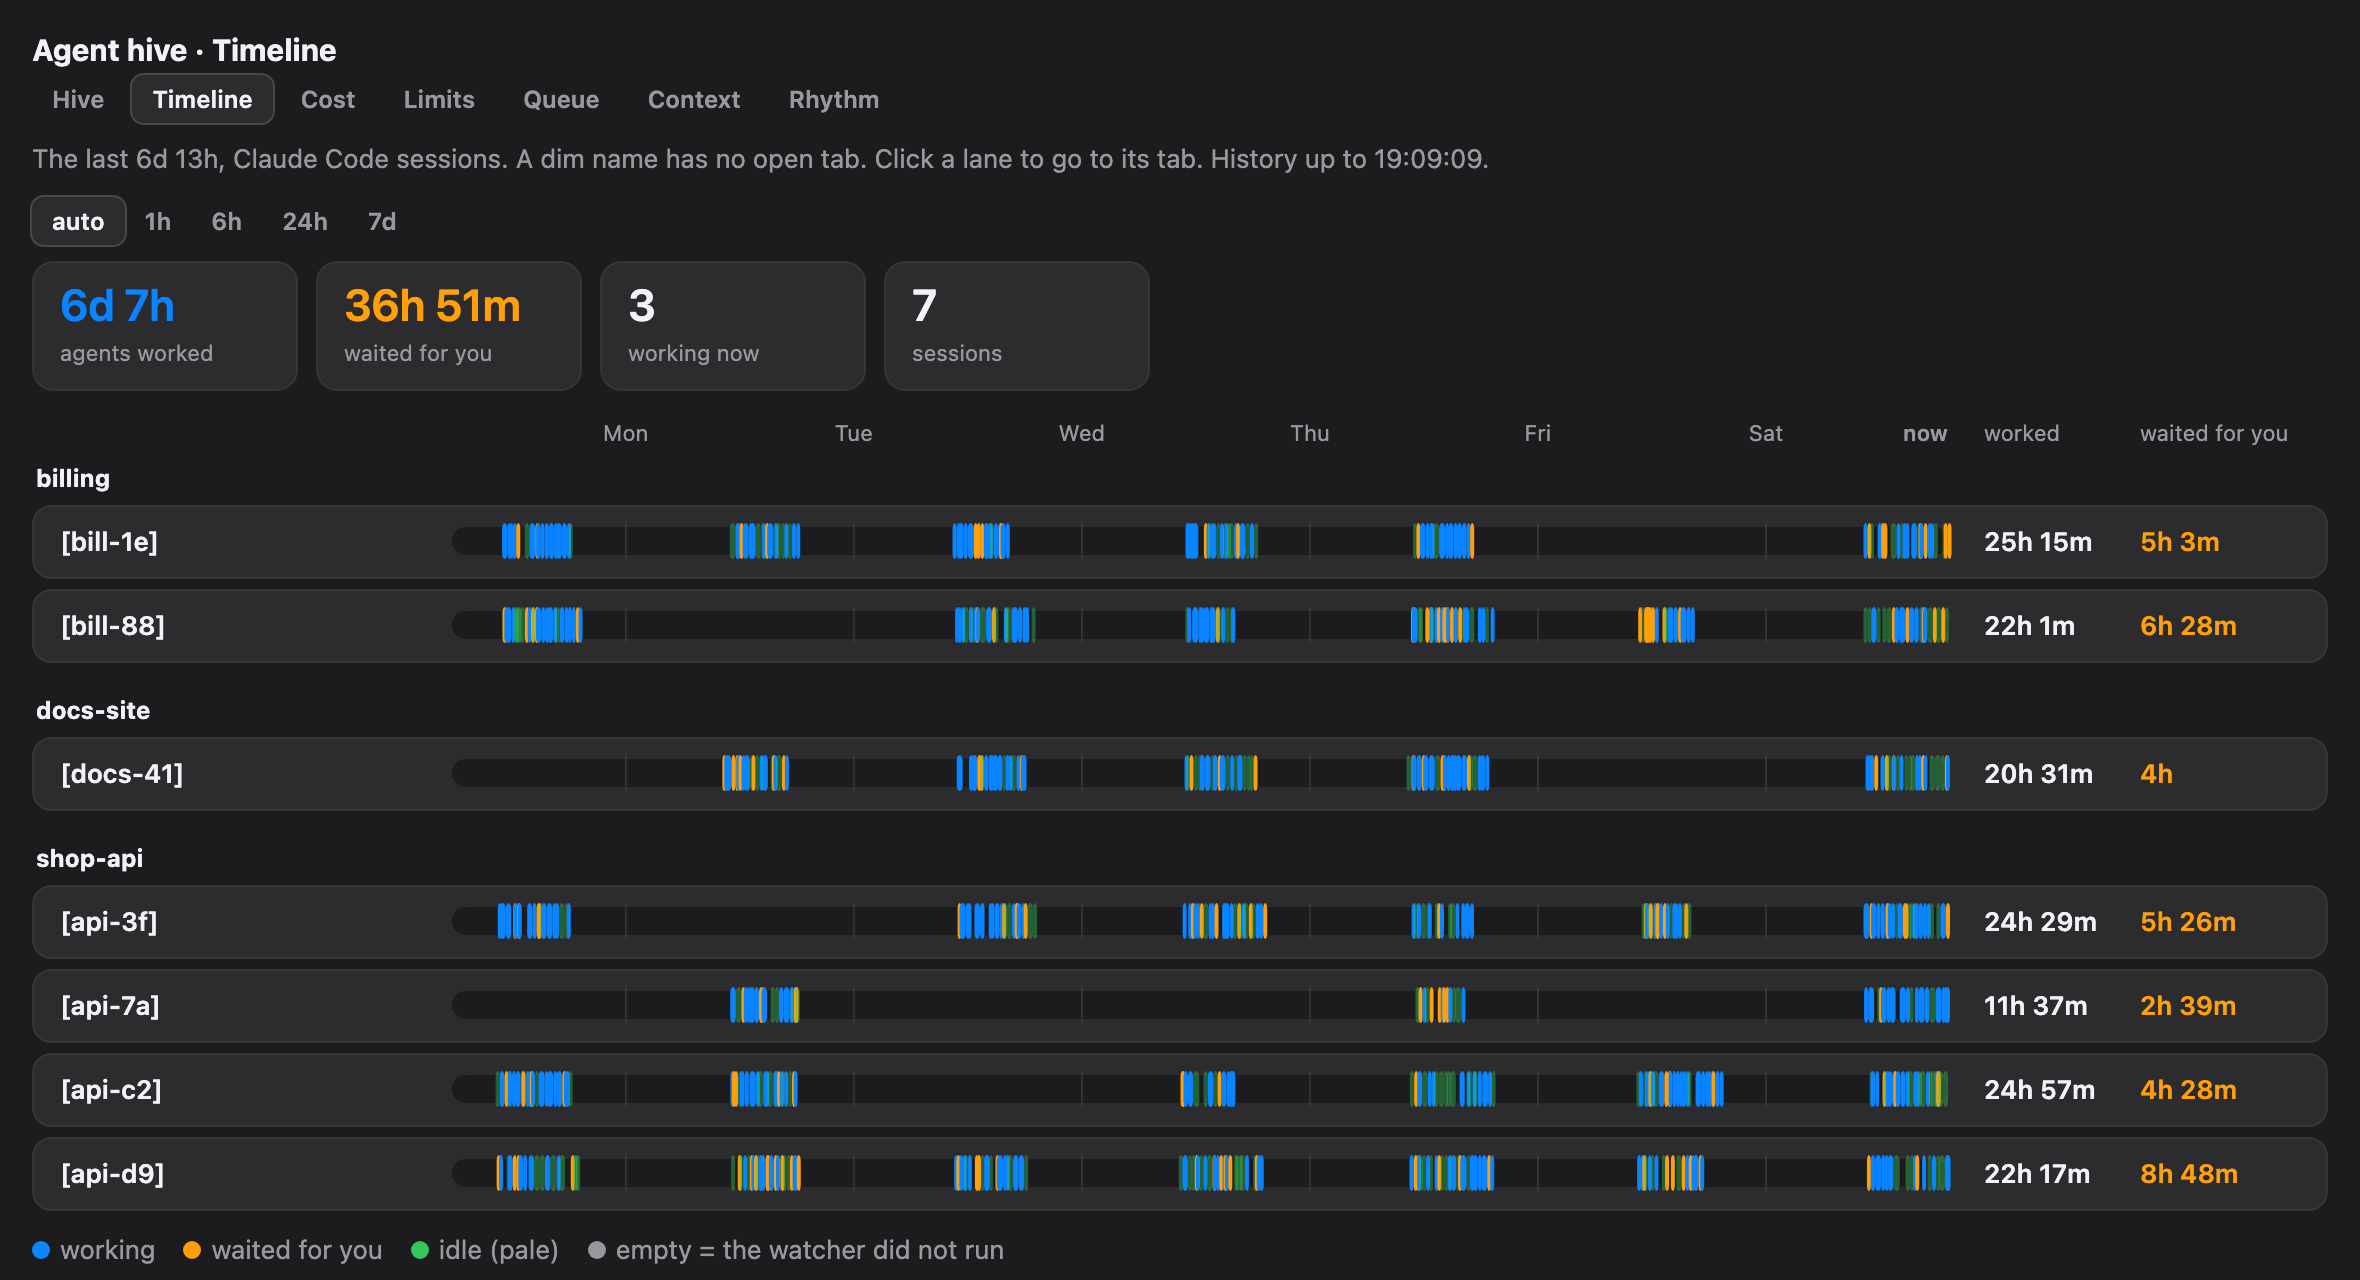
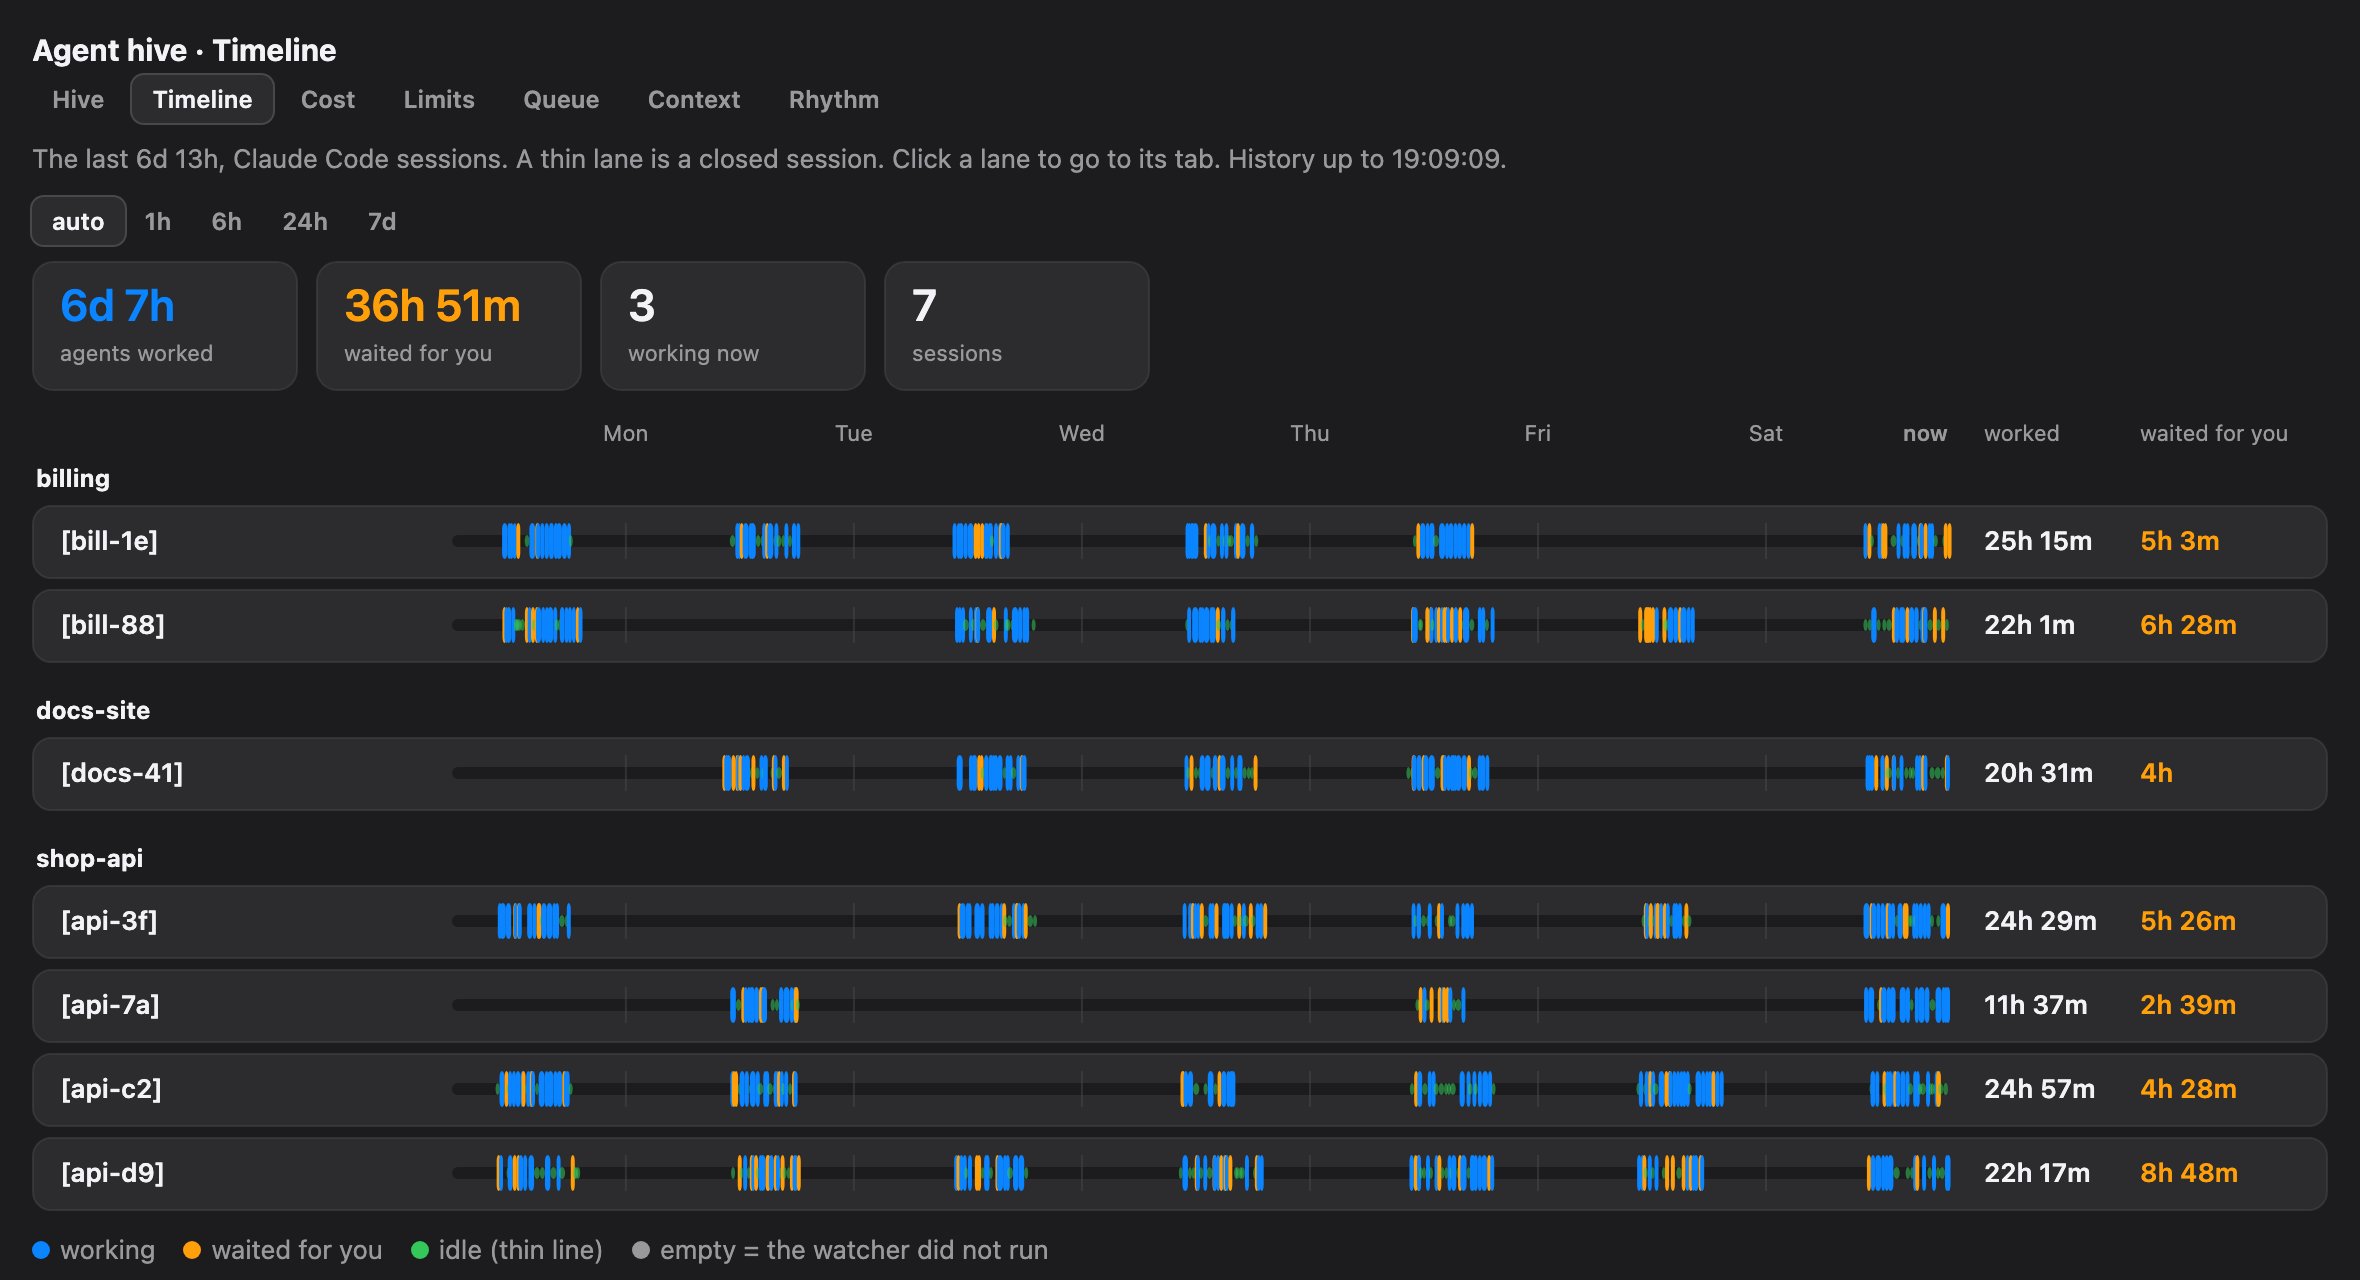
Views page: closed sessions as thin lanes, readable small cost boxes, session names with spaces
Claude-Session: https://claude.ai/code/session_01HXnduGYF8UR6DKBXDS7SRz

diff --git a/scripts/hive.html b/scripts/hive.html
@@ -241,7 +241,7 @@ const two = (n) => String(n).padStart(2, "0");
 const hhmm = (t) => { const d = new Date(t * 1000); return two(d.getHours()) + ":" + two(d.getMinutes()); };
 const dayTime = (t) => new Date(t * 1000).toLocaleDateString(undefined, { weekday: "short" }) + " " + hhmm(t);
 const money = (c) => { const n = parseFloat(String(c ?? "").replace(/[^0-9.]/g, "")); return Number.isFinite(n) ? n : 0; };
-const sessName = (title) => (/^\[([^\] ]+)/.exec(String(title ?? "")) || [])[1] || "";
+const sessName = (title) => (/^\[([^\]]+)\]/.exec(String(title ?? "")) || [])[1] || "";
 const agents = () => pic.ws.flatMap((w) => (w.a || []).map((a) => ({ ...a, wn: w.n, wc: w.c })));
 const goOf = (a) => (a && /^[0-9A-Fa-f-]{1,40}$/.test(a.i || "") && /^[0-9A-Fa-f-]{1,40}$/.test(a.w || "") ? a.w + ":" + a.i : "");
 // The box of an open session with this name, for a jump from a view that knows names only.
@@ -273,6 +273,12 @@ function tiles(svg, items) {
 const card = (y, w, h, marked) => el("rect", { class: "box", x: 0.5, y: y + 0.5, width: w - 1, height: h, rx: 9,
   style: marked ? "stroke:#0A84FF;stroke-width:1.6" : "stroke-opacity:.5" });
 const track = (x, y, w, h) => el("rect", { x, y, width: Math.max(0, w), height: h, rx: h / 2, fill: "var(--bg)" });
+// Shares of a length, where no part is smaller than min: the small parts grow, the others give the room.
+function fit(values, length, min) {
+  const sum = values.reduce((p, q) => p + q, 0), floor = Math.min(min, length / values.length);
+  const small = values.filter((v) => (v / sum) * length < floor), rest = sum - small.reduce((p, q) => p + q, 0);
+  return values.map((v) => ((v / sum) * length < floor ? floor : (v / rest) * (length - small.length * floor)));
+}
 const size = (svg, w, h) => { svg.setAttribute("width", w); svg.setAttribute("height", h); };
 
 // ---- Timeline: one lane per session, one block per state ----
@@ -294,7 +300,9 @@ function drawTimeline(svg) {
       "It covers Claude Code sessions: other tools publish no session state."]);
     return "Timeline: no data in the last " + dur(span) + ".";
   }
-  const order = [...lanes.keys()].sort((a, b) => (hist.s[a].w + "\n" + hist.s[a].n).localeCompare(hist.s[b].w + "\n" + hist.s[b].n));
+  // In each workspace: the open sessions first, then the closed ones (thin lanes).
+  const rank = (sid) => hist.s[sid].w + "\n" + (agentNamed(hist.s[sid].n) ? 0 : 1) + hist.s[sid].n;
+  const order = [...lanes.keys()].sort((a, b) => rank(a).localeCompare(rank(b)));
   const W = pageWidth(), LEFT = 210, RIGHT = 190, ROW = 36, GAP = 6, plot = W - LEFT - RIGHT;
   const x = (t) => LEFT + ((Math.max(t, from) - from) / span) * plot;
   const sums = order.map((sid) => {
@@ -332,28 +340,29 @@ function drawTimeline(svg) {
       svg.appendChild(el("text", { x: 2, y: y + 13, style: "font-size:12px;font-weight:700" }, cut(group || "no workspace", 40)));
       y += 22;
     }
-    const live = agentNamed(info.n), go = goOf(live), [w, q] = sums[k];
+    const live = agentNamed(info.n), go = goOf(live), [w, q] = sums[k], h = live ? ROW : 24, mid = y + h / 2, bh = live ? 18 : 10;
     const g = el("g", go ? { class: "go", tabindex: 0, role: "link" } : {});
-    g.appendChild(card(y, W, ROW, sel && sel === info.n));
-    g.appendChild(el("text", { x: 14, y: y + 23, style: "font-size:13px;font-weight:600" + (live ? "" : ";opacity:.5") }, cut("[" + info.n + "]", 24)));
-    g.appendChild(track(LEFT, y + 11, plot, 14));
-    for (const t of marks) g.appendChild(el("line", { class: "grid", x1: x(t), x2: x(t), y1: y + 9, y2: y + 27, style: "opacity:.5" }));
+    g.appendChild(card(y, W, h, sel && sel === info.n));
+    g.appendChild(el("text", { x: 14, y: mid + 4.5, style: live ? "font-size:13px;font-weight:600" : "font-size:11px;opacity:.55" }, cut("[" + info.n + "]", 24)));
+    g.appendChild(track(LEFT, mid - 3, plot, 6));
+    for (const t of marks) g.appendChild(el("line", { class: "grid", x1: x(t), x2: x(t), y1: mid - bh / 2, y2: mid + bh / 2, style: "opacity:.5" }));
     for (const b of lanes.get(sid)) {
       const a = Math.max(b[2], from), z = Math.min(b[3], now);
-      const rect = el("rect", { x: x(a), y: y + 9, width: Math.max(2, x(z) - x(a)), height: 18, rx: 3,
-        fill: STATUS[b[1]][0], opacity: b[1] === "idle" ? 0.4 : 1 });
+      const idle = b[1] === "idle";  // idle time is a thin line, so work and waits stand out
+      const rect = el("rect", { x: x(a), y: idle ? mid - 3 : mid - bh / 2, width: Math.max(2, x(z) - x(a)), height: idle ? 6 : bh, rx: 3,
+        fill: STATUS[b[1]][0], opacity: idle ? 0.55 : 1 });
       rect.appendChild(el("title", {}, STATUS[b[1]][1] + " " + hhmm(b[2]) + " to " + hhmm(b[3]) + " (" + dur(b[3] - b[2]) + ")"));
       g.appendChild(rect);
     }
-    g.appendChild(el("text", { x: LEFT + plot + 18, y: y + 23, style: "font-size:13px;font-weight:600" + (w ? "" : ";opacity:.3") }, w ? dur(w) : "–"));
-    g.appendChild(el("text", { x: LEFT + plot + 96, y: y + 23, style: "font-size:13px;font-weight:600;" + (q ? "fill:#FF9F0A" : "opacity:.3") }, q ? dur(q) : "–"));
+    g.appendChild(el("text", { x: LEFT + plot + 18, y: mid + 4.5, style: "font-size:13px;font-weight:600" + (w ? "" : ";opacity:.3") }, w ? dur(w) : "–"));
+    g.appendChild(el("text", { x: LEFT + plot + 96, y: mid + 4.5, style: "font-size:13px;font-weight:600;" + (q ? "fill:#FF9F0A" : "opacity:.3") }, q ? dur(q) : "–"));
     if (go) jump(g, go);
     svg.appendChild(g);
-    y += ROW + GAP;
+    y += h + (live ? GAP : 3);
   });
   size(svg, W, y + 4);
-  legendItems = [[STATUS.working[0], "working"], [STATUS.needs_input[0], "waited for you"], [STATUS.idle[0], "idle (pale)"], ["#98989d", "empty = the watcher did not run"]];
-  return "The last " + dur(span) + ", Claude Code sessions. A dim name has no open tab. Click a lane to go to its tab.";
+  legendItems = [[STATUS.working[0], "working"], [STATUS.needs_input[0], "waited for you"], [STATUS.idle[0], "idle (thin line)"], ["#98989d", "empty = the watcher did not run"]];
+  return "The last " + dur(span) + ", Claude Code sessions. A thin lane is a closed session. Click a lane to go to its tab.";
 }
 
 // ---- Cost: a map (workspace, then session; the area is the cost) and a ranked list ----
@@ -369,15 +378,17 @@ function drawCost(svg) {
   const W = pageWidth(), H = 240, GAP = 4;
   let y = tiles(svg, [["$" + total.toFixed(2), "open sessions, list price", ""], ["$" + all[0].v.toFixed(2), "top: " + cut(sessName(all[0].a.n) || all[0].a.n, 20), modelOf(all[0].a.m)[1]],
     [Math.round((groups[0].v / total) * 100) + "%", "in " + cut(groups[0].n, 20), ""], [String(all.length), "sessions with a cost", ""]]);
+  const widths = fit(groups.map((g) => g.v), W, 170);
+  groups.forEach((g, k) => { g.gw = widths[k]; const hs = fit(g.a.map((x) => x.v), H, 28); g.a.forEach((x, j) => { x.h = hs[j]; }); });
   // The map. A box takes the tint of its model; the text keeps the page's ink, so it reads in light and dark.
   let x0 = 0;
   for (const g of groups) {
-    const gw = (g.v / total) * W;
+    const gw = g.gw;
     if (gw >= 60) svg.appendChild(el("text", { x: x0 + 2, y: y + 12, style: "font-size:12px;font-weight:700" }, cut(g.n, Math.floor(gw / 8))));
-    if (gw >= 190) svg.appendChild(el("text", { class: "sub", x: x0 + gw - GAP - 2, y: y + 12, "text-anchor": "end", style: "font-size:11px" }, "$" + g.v.toFixed(2) + " · " + Math.round((g.v / total) * 100) + "%"));
+    if (gw >= 260) svg.appendChild(el("text", { class: "sub", x: x0 + gw - GAP - 2, y: y + 12, "text-anchor": "end", style: "font-size:11px" }, "$" + g.v.toFixed(2) + " · " + Math.round((g.v / total) * 100) + "%"));
     let y0 = y + 20;
-    for (const { a, v } of g.a) {
-      const h = (v / g.v) * H, model = modelOf(a.m), go = goOf(a), bw = Math.max(2, gw - GAP), bh = Math.max(2, h - GAP);
+    for (const { a, v, h } of g.a) {
+      const model = modelOf(a.m), go = goOf(a), bw = Math.max(2, gw - GAP), bh = Math.max(2, h - GAP);
       const box = el("g", go ? { class: "go", tabindex: 0, role: "link" } : {});
       const rect = el("rect", { x: x0 + 0.5, y: y0 + 0.5, width: bw, height: bh, rx: Math.min(8, bh / 2),
         style: "fill:color-mix(in srgb, " + model[1] + " 24%, var(--card));stroke:" + model[1] + ";stroke-opacity:.75" });
@@ -419,7 +430,7 @@ function drawCost(svg) {
   size(svg, W, y + 4);
   const seen = new Set(all.map((x) => modelOf(x.a.m)));
   legendItems = MODELS.filter((m) => seen.has(m) && m[0] !== "mythos").map((m) => [m[1], m[2]]);
-  return "One column per workspace; the area of a box is the cost of its session. Costs are estimates at list price. Click a box or a line to go to its tab.";
+  return "One column per workspace; the area of a box follows the cost of its session (a small box is enlarged to stay readable). Costs are estimates at list price. Click a box or a line to go to its tab.";
 }
 
 // ---- Limits: one card per limit window: the readings, and where the line goes ----
@@ -444,7 +455,7 @@ function drawLimits(svg) {
     return "Limits: no data.";
   }
   charts.sort((p, q) => (p.tool + p.acct + p.win).localeCompare(q.tool + q.acct + q.win));
-  const W = pageWidth(), COLS = W >= 1040 && charts.length > 1 ? 2 : 1, GAP = 12, CW = (W - (COLS - 1) * GAP) / COLS, CH = 244;
+  const W = pageWidth(), COLS = W >= 840 && charts.length > 1 ? 2 : 1, GAP = 12, CW = (W - (COLS - 1) * GAP) / COLS, CH = 244;
   const L = 46, R = 22, T = 98, B = 34, plotW = CW - L - R, plotH = CH - T - B;
   size(svg, W, Math.ceil(charts.length / COLS) * (CH + GAP));
   let risky = 0;
@@ -607,12 +618,14 @@ function drawRhythm(svg) {
   const top = tiles(svg, [[dur(total), "agent work, 7 days", STATUS.working[0]], [dur(today), "today", ""],
     [two(best % 24) + ":00", "busiest hour, " + bestDay.toLocaleDateString(undefined, { weekday: "short" }) + " (" + dur(max) + ")", ""],
     [active + " of " + DAYS, "days with history", ""]]);
-  const W = pageWidth(), LEFT = 104, RIGHT = 84, CW = Math.min(46, (W - LEFT - RIGHT) / 24), CHH = 34, TOP = top + 22, hourNow = new Date(now * 1000).getHours();
-  size(svg, LEFT + 24 * CW + RIGHT, TOP + DAYS * CHH + 8);
+  const W = pageWidth(), LEFT = 104, RIGHT = 84, CW = Math.min(46, (W - LEFT - RIGHT) / 24), row0 = cells.findIndex((row) => row.some(Boolean)),
+    CHH = DAYS - row0 <= 2 ? 60 : 34, TOP = top + 22, hourNow = new Date(now * 1000).getHours();
+  size(svg, LEFT + 24 * CW + RIGHT, TOP + (DAYS - row0) * CHH + 8);
   for (let h = 0; h < 24; h += 2) svg.appendChild(el("text", { class: "sub", x: LEFT + h * CW + (CW - 4) / 2, y: top + 12, "text-anchor": "middle", style: "font-size:11px" }, two(h)));
   cells.forEach((row, r) => {
-    const date = new Date((day0 + r * 86400 + 43200) * 1000), y = TOP + r * CHH, isToday = r === DAYS - 1;
-    svg.appendChild(el("text", { x: 2, y: y + 20, style: "font-size:12px;" + (isToday ? "font-weight:700" : "opacity:.7") },
+    const date = new Date((day0 + r * 86400 + 43200) * 1000), y = TOP + (r - row0) * CHH, isToday = r === DAYS - 1, base = y + (CHH - 4) / 2 + 4;
+    if (r < row0) return;
+    svg.appendChild(el("text", { x: 2, y: base, style: "font-size:12px;" + (isToday ? "font-weight:700" : "opacity:.7") },
       isToday ? "Today" : date.toLocaleDateString(undefined, { weekday: "short", day: "numeric", month: "short" })));
     row.forEach((v, h) => {
       const share = v / max;
@@ -620,14 +633,15 @@ function drawRhythm(svg) {
         style: v ? "fill:color-mix(in srgb, #0A84FF " + Math.round(30 + 70 * share) + "%, var(--card))" : "fill:var(--card);opacity:.6" });
       rect.appendChild(el("title", {}, two(h) + ":00 · " + (v ? dur(v) + " of agent work" : "no work")));
       svg.appendChild(rect);
-      if (v && CW >= 34) svg.appendChild(el("text", { x: LEFT + h * CW + (CW - 4) / 2, y: y + 19, "text-anchor": "middle", style: "font-size:10px;font-weight:600;fill:#fff;pointer-events:none" }, dur(v).replace(" ", "")));
+      if (v && CW >= 28) svg.appendChild(el("text", { x: LEFT + h * CW + (CW - 4) / 2, y: base - 0.5, "text-anchor": "middle", style: "font-size:10px;font-weight:600;fill:#fff;pointer-events:none" }, dur(v).replace(" ", "")));
       if (isToday && h === hourNow) svg.appendChild(el("rect", { x: LEFT + h * CW - 1.5, y: y - 1.5, width: CW - 1, height: CHH - 1, rx: 7.5, style: "fill:none;stroke:var(--fg);stroke-width:1.5" }));
     });
     const sum = row.reduce((p, q) => p + q, 0);
-    svg.appendChild(el("text", { x: LEFT + 24 * CW + 10, y: y + 20, style: "font-size:12px;font-weight:600" + (sum ? "" : ";opacity:.3") }, sum ? dur(sum) : "–"));
+    svg.appendChild(el("text", { x: LEFT + 24 * CW + 10, y: base, style: "font-size:12px;font-weight:600" + (sum ? "" : ";opacity:.3") }, sum ? dur(sum) : "–"));
   });
   legendItems = [["#0A84FF", "stronger blue = more agent work in that hour"], ["#98989d", "the outlined cell is the current hour"]];
-  return "Agent work per hour, last " + DAYS + " days, Claude Code sessions. Two agents that work in one hour count twice.";
+  return "Agent work per hour, last " + DAYS + " days, Claude Code sessions. Two agents that work in one hour count twice."
+    + (row0 ? " The history started " + (DAYS - row0 === 1 ? "today" : (DAYS - row0) + " days ago") + ": earlier days are not shown." : "");
 }
 
 // ---- The switch and the page loop ----
